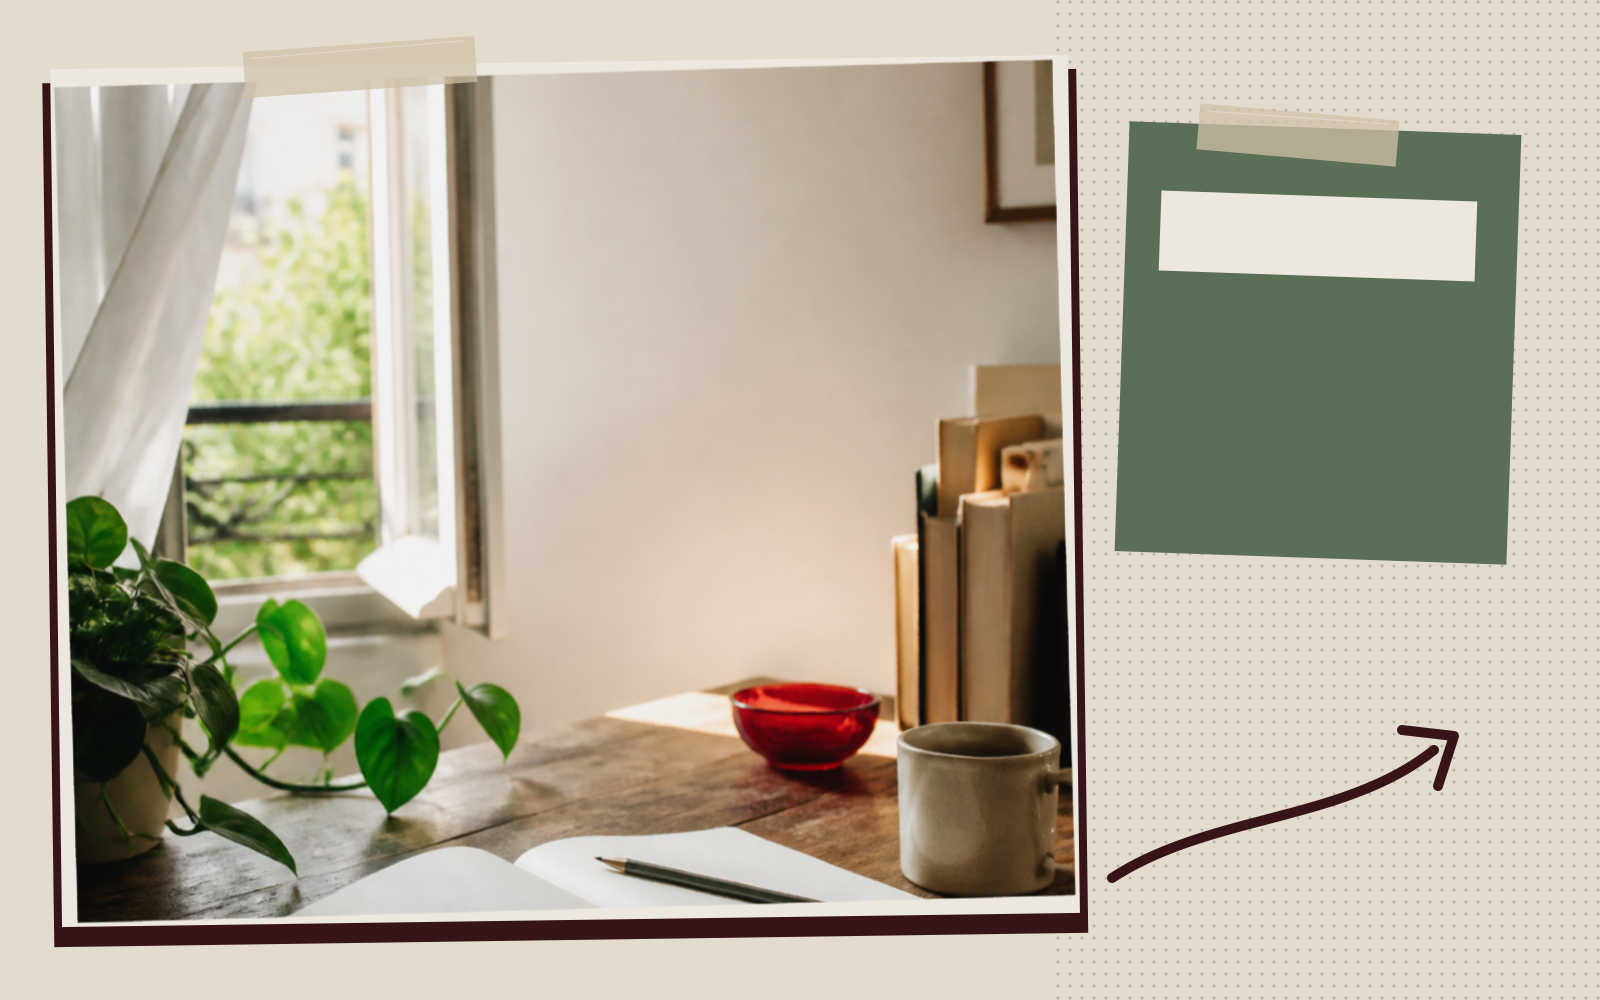
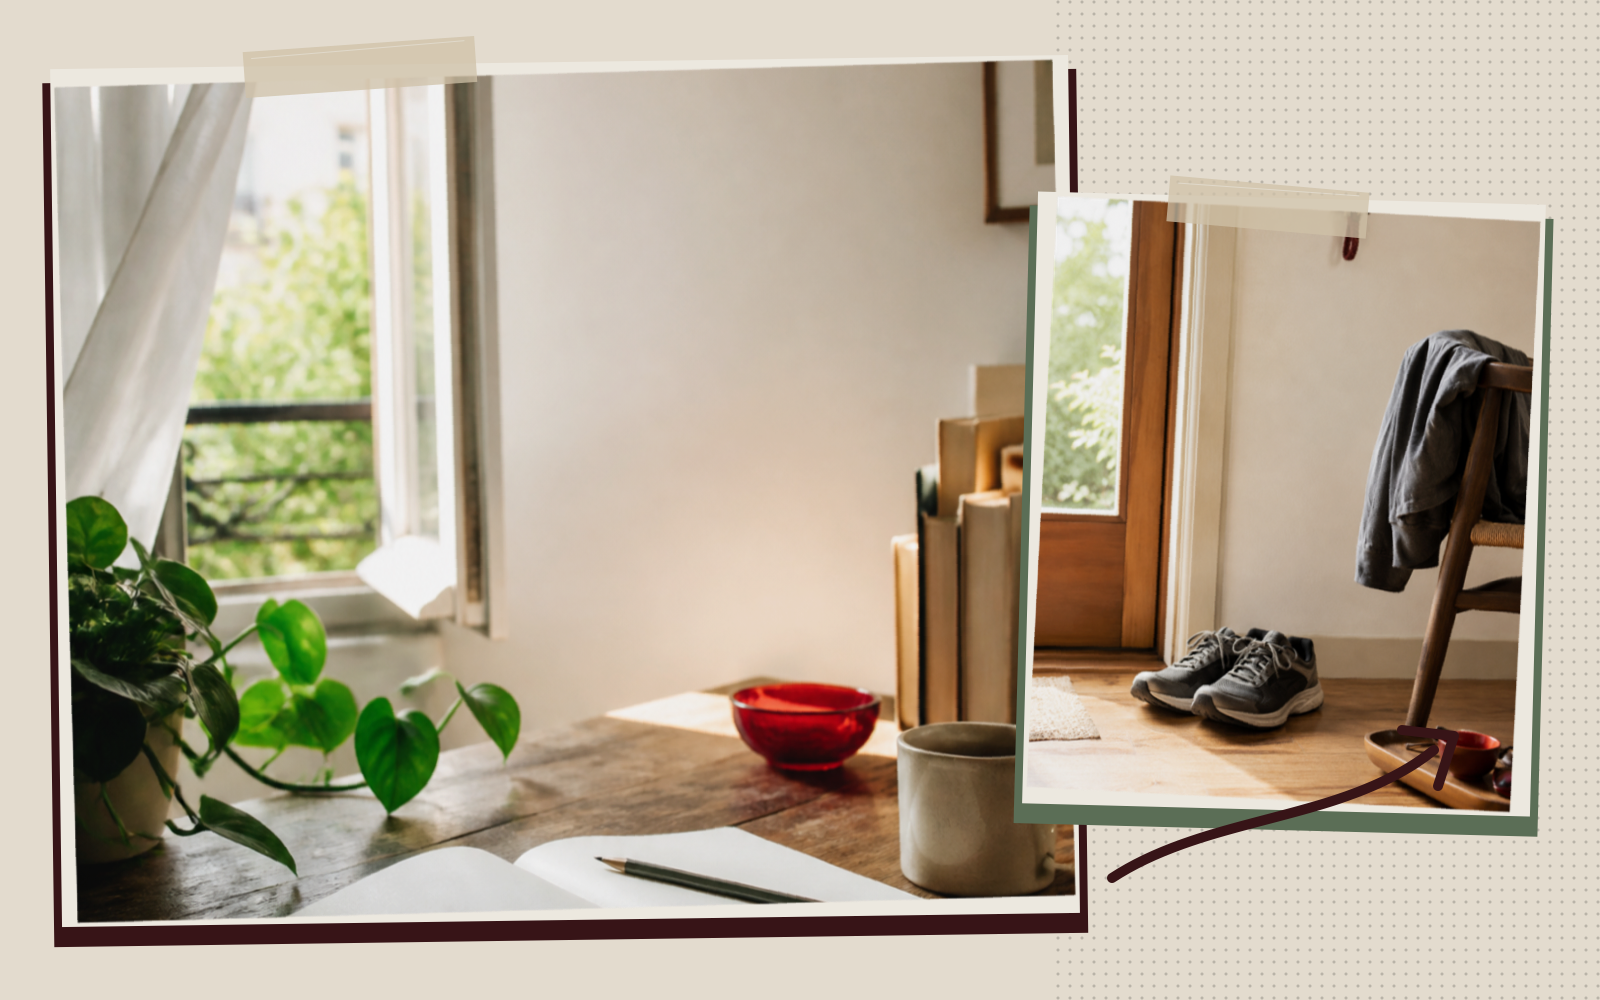
feat(assets): expand the photo library and restore two-photo feature collages
Four new editorial source photographs (generated through the founder's
ChatGPT account at the founder's direction, each past the full-resolution
believability gate) restore the collage-rich compositions with zero
cross-surface repeats: chair+workbench on Essay 1, table+doorway on
Start Here, cooking+balcony on About; the friends photograph stays
exclusive to the Essay 1 body. embedImages now resolves source hrefs
dynamically so a new photograph can never silently render as an empty
frame. Prompts and review notes recorded; verification covers all seven
sources.

Changed region(s): [[0.625, 0.093, 0.9688, 0.837]]

diff --git a/assets/source/editorial/README.md b/assets/source/editorial/README.md
@@ -90,13 +90,27 @@ Hyperreal generated imagery must pass the full-resolution believability gate in 
 
 Three earlier dusk-heavy studies were rejected and removed from the repository because distressed walls, isolation, and dark staging communicated decline rather than building, repair, and growth.
 
-## Planned studies — pending generation quota (2026-08-09)
+## Current composition studies — second set (generated 2026-08-09)
 
-The founder ruled that no photograph may appear on more than one surface and that the fix for repetition is a growing library of newly generated photography, with collage-rich compositions restored once these exist. Four prompts are validated (`mmx image generate`, model `image-01`, aspect 2:3, dry-run confirmed) and blocked only on MiniMax token-plan quota; the founder controls the top-up. Planned assignments keep the friends photograph exclusive to the Essay 1 body:
+The founder ruled on 2026-08-09 that no photograph may appear on more than one surface and directed a growing library of unique imagery. These four studies were generated through the founder's own ChatGPT account (GPT image generation, portrait 2:3, 1024x1536) at the founder's direction, each passed the full-resolution believability review, and each is assigned to exactly one surface. The friends photograph remains exclusive to the Essay 1 body.
 
-- `cooking-breakfast-together.png` — two friends cooking breakfast in a bright kitchen; planned About dominant. Prompt: house structure; candid two-figure domestic scene, late-morning daylight, friendship without performance; avoid staged laughter, gloom, luxury, alcohol.
-- `doorway-running-shoes.png` — still life, cared-for running shoes by a front door in morning light; planned Start Here inset (threshold and forward motion). No people; one deep-red accent; avoid gym cues and branding.
-- `balcony-plant-care.png` — hands repotting a healthy plant on a bright balcony; planned About inset (patience and care). Hands and forearms only; avoid wilted plants and catalog staging.
-- `workbench-hand-tools.png` — still life, tidy workbench with maintained hand tools and warm hardwood; planned Essay 1 inset (competence and work in progress). No people; avoid grime, rust, macho cliches.
+### `cooking-breakfast-together.png`
 
-Each generated study must pass the full-resolution believability gate before entering this directory, and its final prompt is recorded here in full at that point.
+- Status: composition study; consumed only by the About feature collage (dominant)
+- Prompt: original editorial photograph, two adult male friends cooking breakfast together in a bright well-kept home kitchen in late morning daylight, one at the stove and one slicing fruit, mid-conversation, engaged and at ease; clean lived-in kitchen, warm wood and off-white surfaces, herbs on the windowsill, ordinary cookware; simple well-fitting clothes, natural posture, friendship without performance; contemporary candid editorial photography, natural texture, restrained fine grain; asymmetric composition, clean negative space; bright optimistic daylight; adults only, pristine anatomy, no logos, no readable text, no watermark; avoid gloom, mess, decay, staged laughter, stock smiles, luxury signaling, alcohol, macho posing.
+
+### `doorway-running-shoes.png`
+
+- Status: composition study; consumed only by the Start Here feature collage (inset)
+- Prompt: editorial still life, well-used but cared-for running shoes beside a front door on a clean wooden floor, morning light through doorway glass, keys on a hook, folded jacket on a chair; discipline, readiness, forward motion; no people; contemporary magazine still-life photography, tactile materials, subtle grain; asymmetric composition, generous negative space; soft daylight with one small deep-red accent; avoid decay, clutter, gloom, gym cues, branding, luxury styling, heavy shadows.
+
+### `balcony-plant-care.png`
+
+- Status: composition study; consumed only by the About feature collage (inset)
+- Prompt: adult man's capable hands repotting a healthy plant on a small bright apartment balcony in morning light, terracotta pots, trowel, fresh soil on a work cloth; patience, care, things kept alive; hands and forearms only, no face; contemporary editorial photography, natural texture, restrained grain, candid; off-center composition, clean negative space; clear morning daylight; pristine anatomy, no logos, no readable text, no watermark; avoid decay, wilted plants, gloom, poverty cues, luxury signaling, catalog staging.
+
+### `workbench-hand-tools.png`
+
+- Status: composition study; consumed only by the Essay 1 feature collage (inset)
+- Review note: the hand plane's brass adjuster reads as a vintage adjustable pattern; flagged at review and accepted for inset-scale use, subject to normal founder review of the final rendering.
+- Prompt: editorial still life, tidy home workbench in bright late-morning daylight, clean well-maintained hand tools laid out with intention beside partly sanded warm hardwood, shavings gathered neatly, a pencil on the bench; competence, order, work in progress; no people; contemporary magazine still-life photography, tactile materials, subtle grain; asymmetric composition, generous negative space; soft daylight, warm paper-toned highlights; no logos, no readable text, no watermark; avoid grime, rust, decay, darkness, macho workshop cliches, dangerous-tool styling, luxury signaling, heavy shadows.
